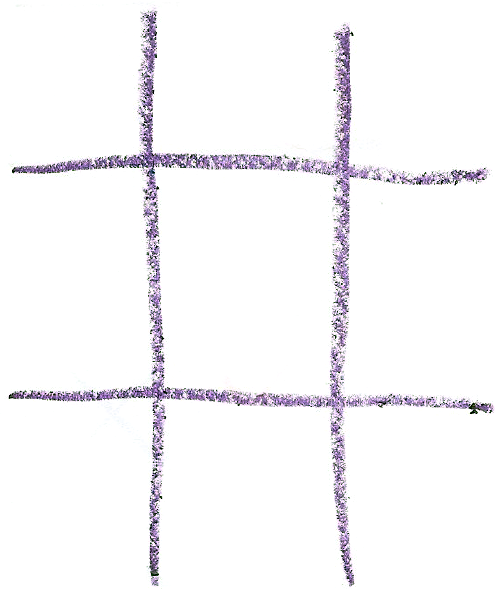
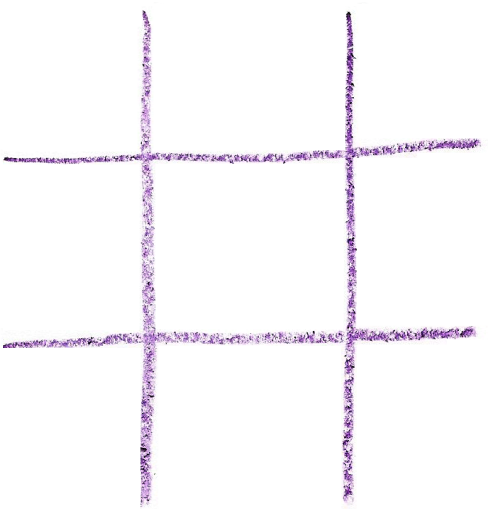
tweaked the tic tac toe view to actually use naughts and crosses and take up a bit less space vertically.

Changed region(s): [[0.0, 0.0, 0.99, 1.0]]

diff --git a/src/demos/tictac/TicTacView.java b/src/demos/tictac/TicTacView.java
@@ -15,7 +15,7 @@ public class TicTacView implements View {
 	private final Controller controller;
 	private final ColorScheme colors = new ColorScheme();
 	private final int width  = 500;
-	private final int height = 595 + 123;
+	private final int height = 509 + 92;
 	
 	private final TicTac model;
 	private final Image board;
@@ -44,7 +44,7 @@ public class TicTacView implements View {
 	private double sofar = 0;
 	public void tick(double time) {
 		sofar += time;
-		if (sofar > 1) {
+		if (sofar > 10) {
 			controller.next();
 			sofar = 0;
 		}
@@ -57,22 +57,23 @@ public class TicTacView implements View {
 	public void draw(Graphics2D g) {
 		g.setColor(Color.WHITE);
 		g.fillRect(0, 0, width, height);
-		g.drawImage(board, 0, 123, null);
+		g.drawImage(board, 0, 92, null);
 
 		synchronized(model) {
 			if (model.done()) {
-				if (model.hasWon(model.CROSSES)) { drawMessage(1, g); }
-				if (model.hasWon(model.CIRCLES)) { drawMessage(3, g); }
+				if (model.hasWon(model.CROSSES)) { drawMessage(3, g); }
+				if (model.hasWon(model.CIRCLES)) { drawMessage(1, g); }
 			}
 			else {
-				drawMessage(model.team() * 2, g);
+				if (model.team() == model.CROSSES) { drawMessage(2, g); }
+				if (model.team() == model.CIRCLES) { drawMessage(0, g); }
 			}
 
 			for(int x = 0; x < 3; x++) {
 				for(int y = 0; y < 3; y++) {
 					Actor a = model.actorAt(new Location(model, x, y));
 					if (a instanceof Factional) {
-						drawCross(x, y, ((Factional)a).team() != model.CROSSES, g);
+						drawCross(x, y, ((Factional)a).team() == model.CROSSES, g);
 					}
 				}
 			}
@@ -85,19 +86,19 @@ public class TicTacView implements View {
 			0,
 			0,
 			495,
-			123,
+			92,
 			0,
-			123 * index,
+			92 * index,
 			495,
-			123 * (index + 1),
+			92 * (index + 1),
 			null
 		);
 	}
 
 	private void drawCross(int x, int y, boolean blue, Graphics2D g) {
 		int tile = (x + (y * 2)) % 6;
-		int px = x * 166 + 20;
-		int py = y * 210 + 20 + 123;
+		int px = x * 170 + 20;
+		int py = y * 180 + 20 + 92;
 
 		g.drawImage(
 			crosses,
